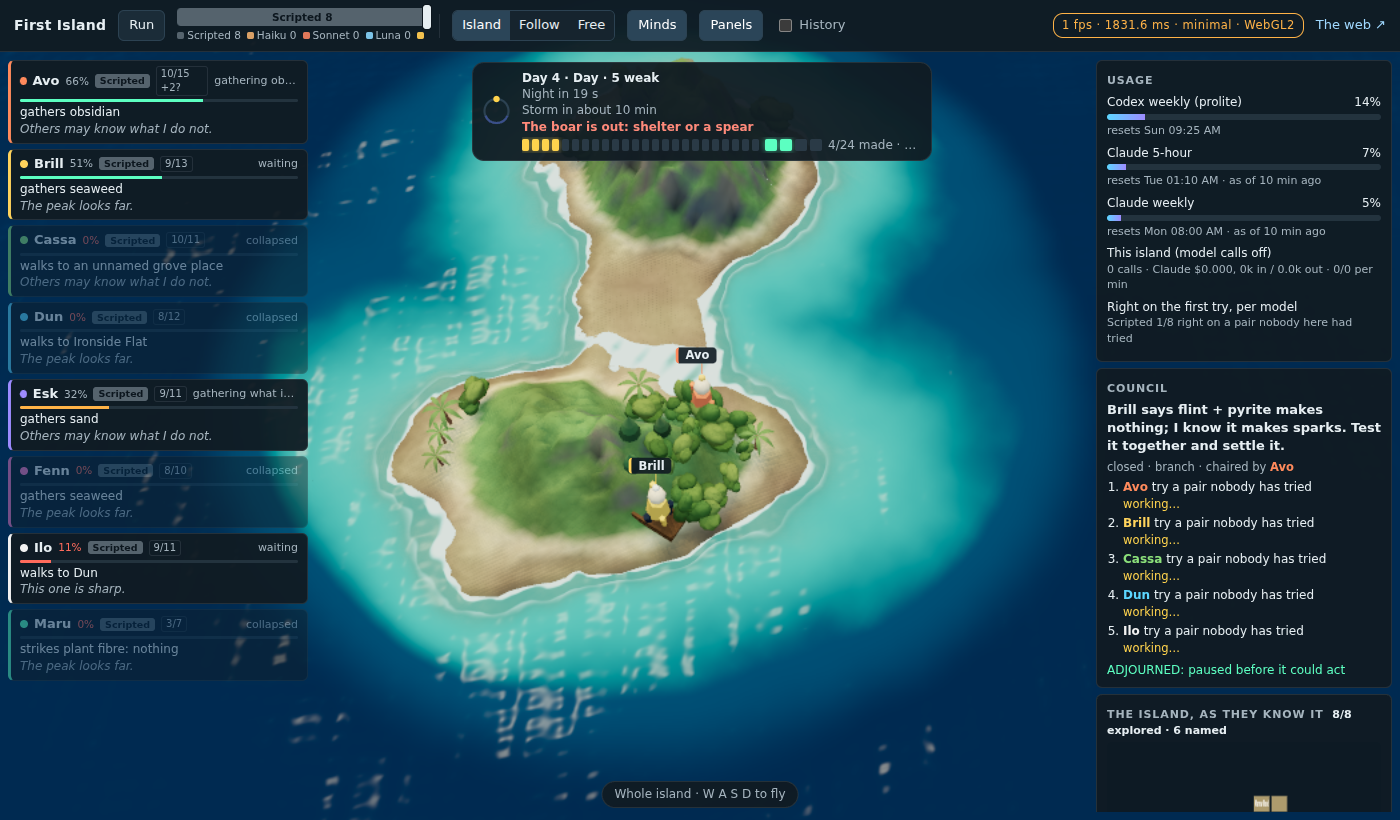
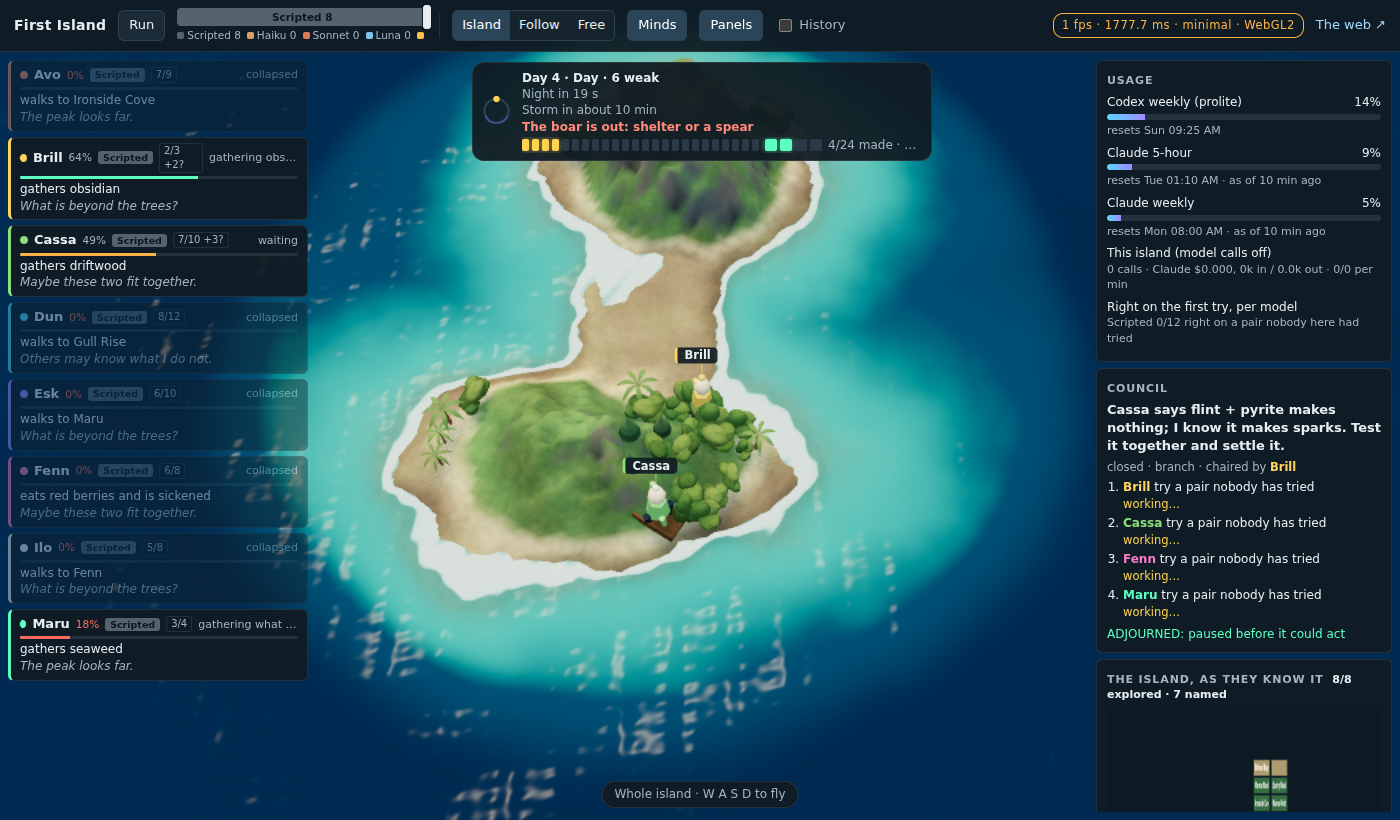
fix: Astra audit 17: materials are sandbox only; the detail check freezes motion and takes a control
Claude-Session: https://claude.ai/code/session_01CPxHWCUJAZcftGCX9NFcUh

diff --git a/src/render/scene.ts b/src/render/scene.ts
@@ -94,15 +94,17 @@ function addTerrain(scene: Scene, world: WorldData, detail?: ReturnType<typeof u
   const surface = mix(attribute('color', 'vec3'), weathered.mul(creviceShade), attribute('rockWeight', 'float'));
   // Sand and grass grain (decision 60): fine noise varies their colour as rock already varies, and sand at the
   // waterline is darker and glossier where the sea wets it.
-  // Two scales, as in a real meadow or beach: broad patches of lighter and darker growth, and fine grain.
-  const patches = mx_noise_float(positionWorld.mul(0.9)).mul(0.5).add(0.5);
-  const fine = mx_noise_float(positionWorld.mul(5.2)).mul(0.5).add(0.5);
-  const soft = mix(float(0.8), float(1.2), patches).mul(mix(float(0.9), float(1.1), fine))
-    .mul(float(1).sub(attribute('rockWeight', 'float'))).add(attribute('rockWeight', 'float'));
-  const wet = float(1).sub(smoothstep(0.05, 0.32, positionWorld.y)).mul(float(1).sub(attribute('rockWeight', 'float')));
-  const amount = detail ?? float(1);
-  material.colorNode = surface.mul(grain.mul(0.045).add(1)).mul(mix(float(1), soft, amount)).mul(mix(float(1), float(0.68), wet.mul(amount)));
-  material.roughnessNode = mix(float(0.95), float(0.45), wet.mul(amount));
+  if (detail) {
+    // Two scales, as in a real meadow or beach: broad patches of lighter and darker growth, and fine grain.
+    // Sand at the waterline is darker and glossier where the sea wets it. Not on rock.
+    const notRock = float(1).sub(attribute('rockWeight', 'float'));
+    const patches = mx_noise_float(positionWorld.mul(0.9)).mul(0.5).add(0.5);
+    const fine = mx_noise_float(positionWorld.mul(5.2)).mul(0.5).add(0.5);
+    const soft = mix(float(0.78), float(1.22), patches).mul(mix(float(0.86), float(1.14), fine)).mul(notRock).add(attribute('rockWeight', 'float'));
+    const wet = float(1).sub(smoothstep(0.05, 0.32, positionWorld.y)).mul(notRock);
+    material.colorNode = surface.mul(grain.mul(0.045).add(1)).mul(mix(float(1), soft, detail)).mul(mix(float(1), float(0.68), wet.mul(detail)));
+    material.roughnessNode = mix(float(0.95), float(0.45), wet.mul(detail));
+  } else material.colorNode = surface.mul(grain.mul(0.045).add(1));
   const mesh = new Mesh(geometry, material);
   mesh.castShadow = true;
   mesh.receiveShadow = true;
@@ -115,7 +117,7 @@ function smooth(low: number, high: number, value: number): number {
   return t * t * (3 - 2 * t);
 }
 
-function addOcean(scene: Scene, world: WorldData, u: SkyUniforms, islet?: { world: WorldData; x: number; z: number }): { time: ReturnType<typeof uniform>; mesh: Mesh; heightTexture: DataTexture; isletTexture?: DataTexture } {
+function addOcean(scene: Scene, world: WorldData, u: SkyUniforms, islet?: { world: WorldData; x: number; z: number }, ripples = false): { time: ReturnType<typeof uniform>; mesh: Mesh; heightTexture: DataTexture; isletTexture?: DataTexture } {
   const geometry = new PlaneGeometry(2, 2, 224, 224);
   geometry.rotateX(-Math.PI / 2);
   const pos = geometry.attributes.position;
@@ -148,7 +150,7 @@ function addOcean(scene: Scene, world: WorldData, u: SkyUniforms, islet?: { worl
   }
   material.positionNode = positionLocal.add(vec3(0, displacement, 0));
   // Fine ripples in the fragment normal only: the sun's glitter breaks into sparkle instead of broad blots.
-  for (const r of [{ x: 9.3, z: -6.1, a: 0.0035, s: 3.3 }, { x: -7.7, z: -11.2, a: 0.0028, s: 3.9 }, { x: 14.9, z: 5.3, a: 0.0018, s: 4.6 }]) {
+  if (ripples) for (const r of [{ x: 9.3, z: -6.1, a: 0.0035, s: 3.3 }, { x: -7.7, z: -11.2, a: 0.0028, s: 3.9 }, { x: 14.9, z: 5.3, a: 0.0018, s: 4.6 }]) {
     const ph = positionWorld.x.mul(r.x).add(positionWorld.z.mul(r.z)).add(time.mul(r.s));
     dx = dx.add(cos(ph).mul(r.a * r.x)); dz = dz.add(cos(ph).mul(r.a * r.z));
   }
@@ -212,6 +214,8 @@ function addSky(scene: Scene, u: SkyUniforms): void {
 }
 
 interface SceneOptions {
+  /** The materials follow the light (decision 60): sandbox only; the main page keeps its approved look. */
+  photoreal?: boolean;
   /** The islet offshore (decision 59): its own small terrain, drawn at its place in the sea. */
   islet?: { world: WorldData; x: number; z: number; radius: number };
   snapshot?: Snapshot;
@@ -268,6 +272,8 @@ export interface IslandScene {
   isletDrawn(): boolean;
   /** Test only: 1 draws the surface detail, 0 leaves it out, with no shader rebuilt. */
   setDetail(amount: number): void;
+  /** Test only: hold trees and water still so two captures differ only in what a check changes. */
+  freezeMotion(on: boolean): void;
   /** Shader programs and render pipelines built so far, counted as they are created, for checking that the day turns without rebuilding one. */
   programCount(): number;
   /** The quality actually being drawn, which can lag a request while a path compiles. */
@@ -440,10 +446,11 @@ async function buildIslandScene(placeholder: HTMLCanvasElement, world: WorldData
 
   await progress({ stage: 'terrain', message: 'Building terrain and coastlines', percent: 46 });
   const sky0 = skyUniforms();
+  let frozen = false;
   let sunPhase = NaN, sunHeight = SUN_DIRECTION.y, sunAzimuth = NOON_AZIMUTH;
   addSky(scene, sky0);
-  addTerrain(scene, world, sky0.detail);
-  if (isle) addTerrain(scene, isle.world, sky0.detail).position.set(isle.x, 0, isle.z);
+  addTerrain(scene, world, options.photoreal ? sky0.detail : undefined);
+  if (isle) addTerrain(scene, isle.world, options.photoreal ? sky0.detail : undefined).position.set(isle.x, 0, isle.z);
   await progress({ stage: 'trees', message: 'Building forest canopies', percent: 51 });
   const treeTime = uniform(0);
   const trees = new TreeFigures(scene, treeTime, options.snapshot);
@@ -451,7 +458,7 @@ async function buildIslandScene(placeholder: HTMLCanvasElement, world: WorldData
   await progress({ stage: 'water', message: 'Preparing the ocean', percent: 56 });
   const figures = new AgentFigures(scene, options.snapshot);
   disposables.push(figures);
-  const ocean = addOcean(scene, world, sky0, options.islet);
+  const ocean = addOcean(scene, world, sky0, options.islet, !!options.photoreal);
   if (ocean.isletTexture) disposables.push(ocean.isletTexture);
   disposables.push(ocean.heightTexture);
   const sky = new HemisphereLight('#c5defc', '#73654b', 3);
@@ -639,8 +646,7 @@ async function buildIslandScene(placeholder: HTMLCanvasElement, world: WorldData
       if (agent) { target.lerp(new Vector3(agent.x, agent.y + 0.45, agent.z), 0.3); updateCamera(); }
       else followed = undefined;
     }
-    treeTime.value = time * 0.001;
-    ocean.time.value = time * 0.001;
+    if (!frozen) { treeTime.value = time * 0.001; ocean.time.value = time * 0.001; }
     draw();
   };
   const structures = new Structures(scene);
@@ -671,6 +677,7 @@ async function buildIslandScene(placeholder: HTMLCanvasElement, world: WorldData
     programCount: () => programsBuilt,
     isletDrawn: () => !!isle,
     setDetail: (amount) => { sky0.detail.value = amount; },
+    freezeMotion: (on) => { frozen = on; },
     addStructure: (structure) => structures.add(structure),
     removeStructure: (id) => structures.remove(id),
     structureKinds: () => structures.kinds(),

diff --git a/src/sandbox/main.ts b/src/sandbox/main.ts
@@ -595,7 +595,7 @@ async function startIsland(seed: number, built: never[], isletAt?: { x: number; 
     controller = new SceneRecovery(force => createIslandScene(app.querySelector('canvas')!, world, force, {
       postEnabled, pixelRatio, diagnostics, onProgress: progress, onFallback: () => { notice.textContent = 'Graphics interrupted · switching to WebGL2'; notice.hidden = false; },
       snapshot: state ? snapshot(state) : undefined, onSelect: id => select(id), figureScale: 2.2, agentColours: COLOURS,
-      onManualCamera: () => setMode('free'), islet,
+      onManualCamera: () => setMode('free'), islet, photoreal: true,
     }), forceWebGL2, () => {
       // A scene is going away (startup or a lost device): remember the view, stop its loop,
       // and make sure there is a live loading screen for the replacement to report to.
@@ -671,6 +671,7 @@ async function runIsland(scene: IslandScene) {
     // Test only, with ?debug=1: point the camera at a spot so a check can see what is drawn there.
     if (debug) (window as unknown as { __SANDBOX_LOOK__?: (x: number, z: number) => void }).__SANDBOX_LOOK__ = (x, z) => scene.setPose({ tx: x, ty: 0.5, tz: z, yaw: 0.58, pitch: 1.1, distance: 26 });
     if (debug) (window as unknown as { __SANDBOX_DETAIL__?: (v: number) => void }).__SANDBOX_DETAIL__ = v => scene.setDetail(v);
+    if (debug) (window as unknown as { __SANDBOX_FREEZE__?: (on: boolean) => void }).__SANDBOX_FREEZE__ = on => scene.freezeMotion(on);
     if (debug) window.__SANDBOX__ = { get camera() { return scene.cameraInfo(); }, tags: shown, mode, fps: smoothed ? 1000 / smoothed : 0, quality: scene.appliedQuality(), requested: quality.level, entered, qualitySamples, sun: scene.sunInfo(), sunAtEntry, programs: scene.programCount(), islet: scene.isletDrawn(), drawnKinds: scene.structureKinds() };
     frameRequest = requestAnimationFrame(t => { try { tick(t); } catch (err) { void controller?.reportFailure(scene, err); } });
   };

diff --git a/docs/JOURNAL.md b/docs/JOURNAL.md
@@ -187,16 +187,20 @@ The owner's reaction: "that's the design equivalent of the Matrix."
   an advisor review and closing the task list. Rivals and the awakening wait until after the play test.
 - Decision 60. Checks first, failing on v0.10.0: islet shallows 0.000 (now about 0.14), and open-sea glare already
   0.000 since the glint softening, so that check guards against the blots returning rather than proving the ripples.
-- The surface-detail check took three tries, and the record should say why. A neighbour-difference measure on a
+- The surface-detail check took four tries, and the record should say why. A neighbour-difference measure on a
   shrunken screenshot could not see patches 20 pixels wide (6.48 before, 6.03 and 6.50 after). A block-contrast
-  measure was swamped by hill shading (22.21 before, 22.55 after). The check that holds switches the detail off and
-  on in the same frame with the same camera and compares: zero without it by construction, 3.50 of 255 with it,
-  against a bar of 3 set before measuring. The first reading, 2.97, was met by making the meadow patches slightly
-  stronger, not by moving the bar.
-- Frame cost on this machine, v0.10.0 against v0.11.0 alternating three times on the main page (seeds 1 and 42):
+  measure was swamped by hill shading (22.21 before, 22.55 after). Switching the detail off and on read 3.50 against
+  a bar of 3, but Astra audit 17 showed the two captures also differed by tree sway and moving water. With motion
+  frozen and a control (two captures with the detail off), the control reads 0.00 and the true effect 2.47, then
+  2.71 after strengthening the grain within natural limits. The bar is now 2: the old bar of 3 was set on the
+  contaminated measure, which added about one unit.
+- Also from audit 17: the new materials reached the main (non-sandbox) island page, whose look was approved earlier.
+  They are now sandbox only; the main page's shaders are exactly as before.
+- Frame cost on this machine, measured before the materials were limited to the sandbox, so on the main page with
+  them on: v0.10.0 against v0.11.0 alternating three times (seeds 1 and 42):
   best medians 1316 ms and 850 ms per frame under software rendering. The machine is too noisy to call that faster;
   it shows no measurable added cost. Every load passed the build eval's look checks in both versions.
-- Local: 92/92 sandbox eval, zero model calls.
+- Local: 92/92 sandbox eval (the last run read 2.71 for the detail check), zero model calls.
 
 ## Next
 

diff --git a/docs/reviews/astra-audit-17-2026-10-19.md b/docs/reviews/astra-audit-17-2026-10-19.md
@@ -1,0 +1,20 @@
+# Astra audit 17 (GPT-6-Astra), 19 Oct 2026: v0.11.0, photorealism (PR #31)
+
+Brief: adversarial review of the new materials against the startup and performance contract, the main page's approved look, and the honesty of the checks. Run visibly in tmux session island, window audit, with codex exec, read-only.
+
+## Verdict, verbatim
+
+ready to leave draft: no
+
+1. **[P2] The new materials change the protected main page.** [src/render/scene.ts:445 unconditionally supplies `detail = 1` to terrain in the shared scene builder, including calls from `src/main.ts`. The main page therefore gains the colour variation, wet-band darkening and reduced roughness; the ripple changes are also unconditional. Gate these changes to the sandbox to preserve the approved main-page look.
+
+2. **[P2] The detail comparison does not isolate surface detail.** [scripts/eval-sandbox.mjs:448 captures images at least 2.5 seconds apart. Pausing the server freezes simulation time, but `scene.render()` continues advancing tree sway and ocean animation. The colour-based land mask includes trees and their moving shadows, so the measured difference includes unrelated animation. Freeze render time for both captures and verify an unchanged-detail control. The “same frame” and “zero without it by construction” claims in [docs/JOURNAL.md:193 are consequently incorrect.
+
+Client and server typechecks passed. Browser evals were not rerun; existing screenshots were inspected.
+
+## What was done
+
+1. The materials are sandbox only: a photoreal scene option, set by the sandbox page alone. Without it the terrain builds its original colour node and no roughness node, and the ocean has no ripple waves and no islet seabed, so the main page's shaders are exactly as in v0.10.0.
+2. The detail check now holds trees and water still (a test-only freeze) and takes a control: two captures with the detail off must differ by under 0.5. The control reads 0.00. The true effect read 2.47, then 2.71 after strengthening the grain within natural limits. The bar moved from 3 to 2, because 3 was set on the measure Astra showed was contaminated by motion, which added about one unit. The journal's wording is corrected.
+
+Local after the fixes: sandbox eval 92/92, zero model calls.
